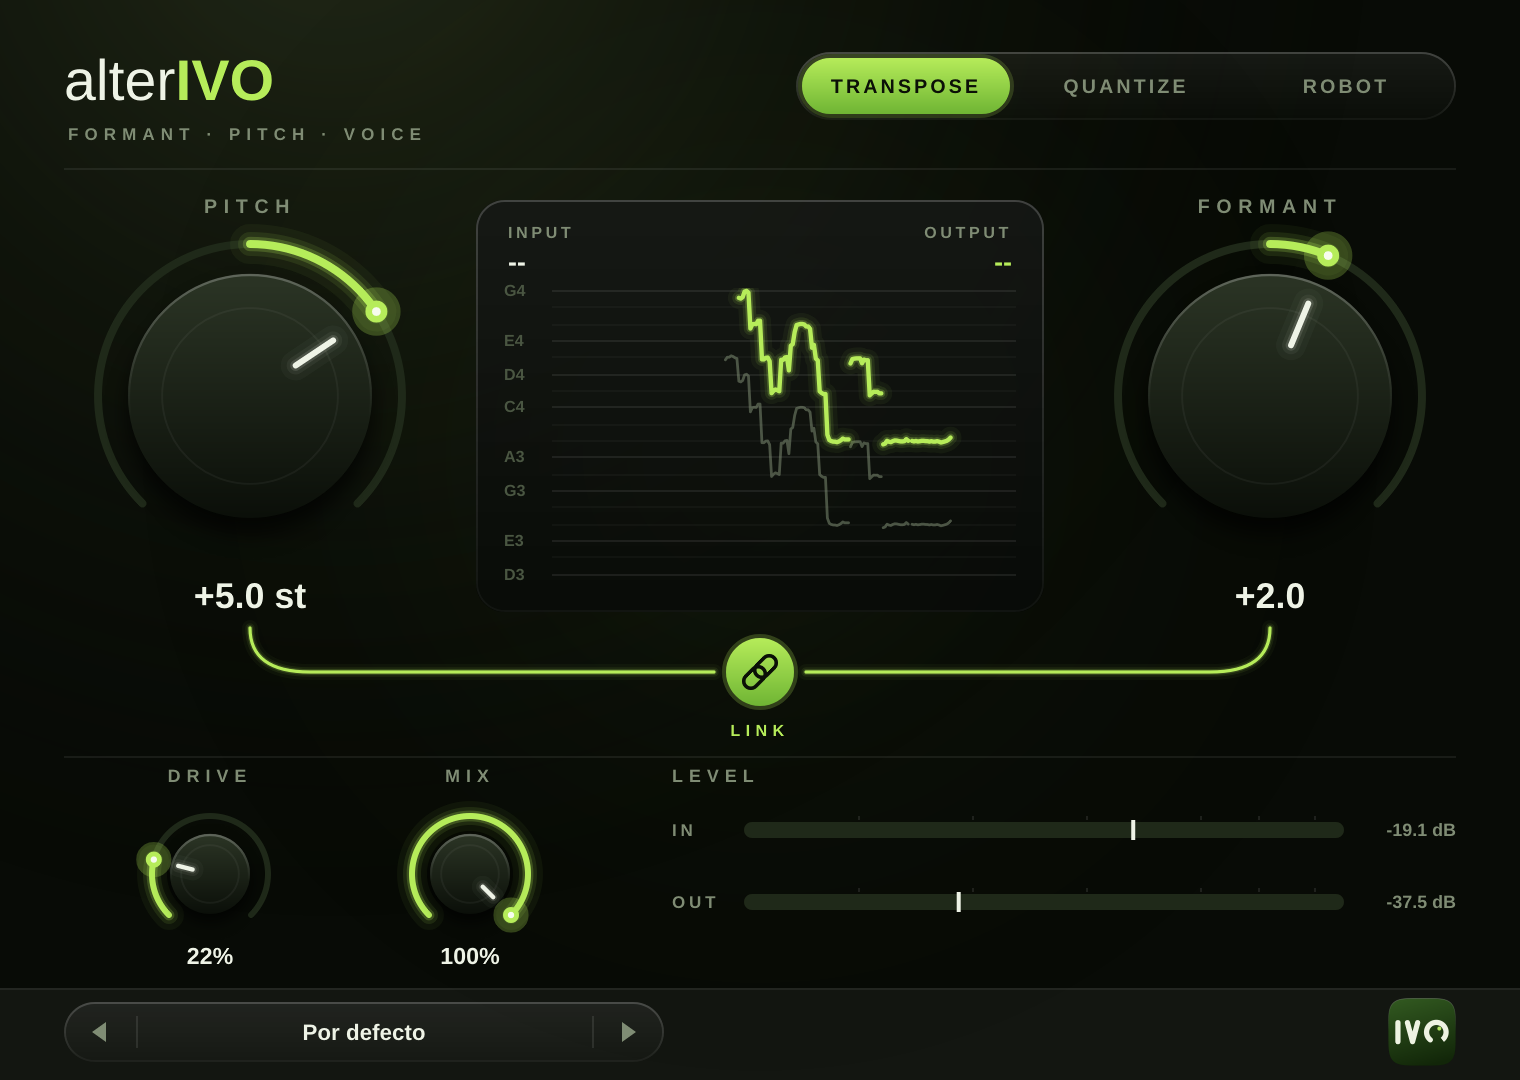
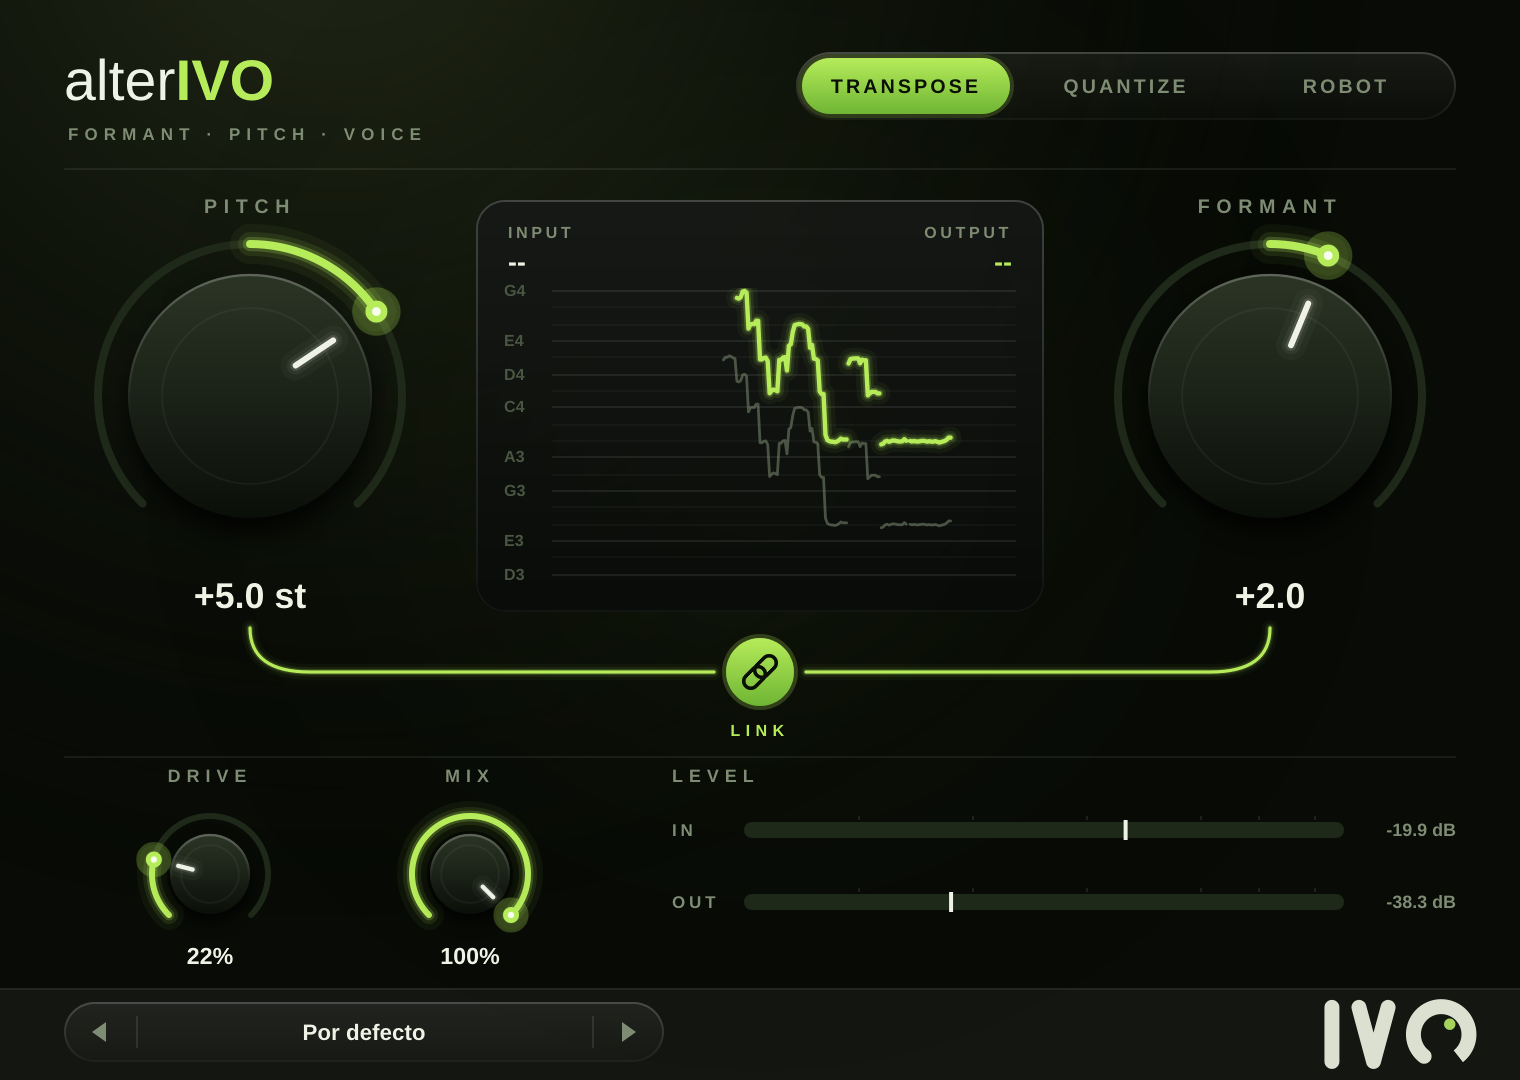
Firma IVO (solo letras) en el pie del plugin
Claude-Session: https://claude.ai/code/session_019pGoiKBtdYvcjfagAEK9Vp

diff --git a/Source/PluginEditor.cpp b/Source/PluginEditor.cpp
@@ -27,8 +27,8 @@ const juce::Rectangle<int> kOutMeter    { 336, 440, 392, 22 };
 const juce::Rectangle<int> kModes       { kW - 32 - 330, 26, 330, 34 };
 const juce::Rectangle<int> kPresets     { 32, 501, 300, 30 };
 
-// Logo IVO (insignia): mismo SVG que logo/ivo-logo-color.svg
-const char* kLogoSvg = R"SVG(<svg xmlns="http://www.w3.org/2000/svg" viewBox="0 0 100 100"><defs><linearGradient id="ivoBg" gradientUnits="userSpaceOnUse" x1="38" y1="4" x2="62" y2="96"><stop offset="0" stop-color="#30561f"/><stop offset="1" stop-color="#122609"/></linearGradient><linearGradient id="ivoHl" gradientUnits="userSpaceOnUse" x1="50" y1="4" x2="50" y2="50"><stop offset="0" stop-color="#ffffff" stop-opacity="0.22"/><stop offset="1" stop-color="#ffffff" stop-opacity="0"/></linearGradient></defs><path d="M96.00,50.00 L95.99,60.22 L95.96,63.81 L95.91,66.46 L95.84,68.65 L95.75,70.53 L95.64,72.21 L95.52,73.73 L95.37,75.12 L95.20,76.41 L95.01,77.61 L94.80,78.73 L94.57,79.79 L94.32,80.79 L94.04,81.73 L93.75,82.63 L93.43,83.49 L93.10,84.30 L92.74,85.07 L92.36,85.81 L91.95,86.51 L91.52,87.18 L91.07,87.82 L90.59,88.43 L90.09,89.01 L89.57,89.57 L89.01,90.09 L88.43,90.59 L87.82,91.07 L87.18,91.52 L86.51,91.95 L85.81,92.36 L85.07,92.74 L84.30,93.10 L83.49,93.43 L82.63,93.75 L81.73,94.04 L80.79,94.32 L79.79,94.57 L78.73,94.80 L77.61,95.01 L76.41,95.20 L75.12,95.37 L73.73,95.52 L72.21,95.64 L70.53,95.75 L68.65,95.84 L66.46,95.91 L63.81,95.96 L60.22,95.99 L50.00,96.00 L39.78,95.99 L36.19,95.96 L33.54,95.91 L31.35,95.84 L29.47,95.75 L27.79,95.64 L26.27,95.52 L24.88,95.37 L23.59,95.20 L22.39,95.01 L21.27,94.80 L20.21,94.57 L19.21,94.32 L18.27,94.04 L17.37,93.75 L16.51,93.43 L15.70,93.10 L14.93,92.74 L14.19,92.36 L13.49,91.95 L12.82,91.52 L12.18,91.07 L11.57,90.59 L10.99,90.09 L10.43,89.57 L9.91,89.01 L9.41,88.43 L8.93,87.82 L8.48,87.18 L8.05,86.51 L7.64,85.81 L7.26,85.07 L6.90,84.30 L6.57,83.49 L6.25,82.63 L5.96,81.73 L5.68,80.79 L5.43,79.79 L5.20,78.73 L4.99,77.61 L4.80,76.41 L4.63,75.12 L4.48,73.73 L4.36,72.21 L4.25,70.53 L4.16,68.65 L4.09,66.46 L4.04,63.81 L4.01,60.22 L4.00,50.00 L4.01,39.78 L4.04,36.19 L4.09,33.54 L4.16,31.35 L4.25,29.47 L4.36,27.79 L4.48,26.27 L4.63,24.88 L4.80,23.59 L4.99,22.39 L5.20,21.27 L5.43,20.21 L5.68,19.21 L5.96,18.27 L6.25,17.37 L6.57,16.51 L6.90,15.70 L7.26,14.93 L7.64,14.19 L8.05,13.49 L8.48,12.82 L8.93,12.18 L9.41,11.57 L9.91,10.99 L10.43,10.43 L10.99,9.91 L11.57,9.41 L12.18,8.93 L12.82,8.48 L13.49,8.05 L14.19,7.64 L14.93,7.26 L15.70,6.90 L16.51,6.57 L17.37,6.25 L18.27,5.96 L19.21,5.68 L20.21,5.43 L21.27,5.20 L22.39,4.99 L23.59,4.80 L24.88,4.63 L26.27,4.48 L27.79,4.36 L29.47,4.25 L31.35,4.16 L33.54,4.09 L36.19,4.04 L39.78,4.01 L50.00,4.00 L60.22,4.01 L63.81,4.04 L66.46,4.09 L68.65,4.16 L70.53,4.25 L72.21,4.36 L73.73,4.48 L75.12,4.63 L76.41,4.80 L77.61,4.99 L78.73,5.20 L79.79,5.43 L80.79,5.68 L81.73,5.96 L82.63,6.25 L83.49,6.57 L84.30,6.90 L85.07,7.26 L85.81,7.64 L86.51,8.05 L87.18,8.48 L87.82,8.93 L88.43,9.41 L89.01,9.91 L89.57,10.43 L90.09,10.99 L90.59,11.57 L91.07,12.18 L91.52,12.82 L91.95,13.49 L92.36,14.19 L92.74,14.93 L93.10,15.70 L93.43,16.51 L93.75,17.37 L94.04,18.27 L94.32,19.21 L94.57,20.21 L94.80,21.27 L95.01,22.39 L95.20,23.59 L95.37,24.88 L95.52,26.27 L95.64,27.79 L95.75,29.47 L95.84,31.35 L95.91,33.54 L95.96,36.19 L95.99,39.78 Z" fill="url(#ivoBg)"/><path d="M96.00,50.00 L95.99,60.22 L95.96,63.81 L95.91,66.46 L95.84,68.65 L95.75,70.53 L95.64,72.21 L95.52,73.73 L95.37,75.12 L95.20,76.41 L95.01,77.61 L94.80,78.73 L94.57,79.79 L94.32,80.79 L94.04,81.73 L93.75,82.63 L93.43,83.49 L93.10,84.30 L92.74,85.07 L92.36,85.81 L91.95,86.51 L91.52,87.18 L91.07,87.82 L90.59,88.43 L90.09,89.01 L89.57,89.57 L89.01,90.09 L88.43,90.59 L87.82,91.07 L87.18,91.52 L86.51,91.95 L85.81,92.36 L85.07,92.74 L84.30,93.10 L83.49,93.43 L82.63,93.75 L81.73,94.04 L80.79,94.32 L79.79,94.57 L78.73,94.80 L77.61,95.01 L76.41,95.20 L75.12,95.37 L73.73,95.52 L72.21,95.64 L70.53,95.75 L68.65,95.84 L66.46,95.91 L63.81,95.96 L60.22,95.99 L50.00,96.00 L39.78,95.99 L36.19,95.96 L33.54,95.91 L31.35,95.84 L29.47,95.75 L27.79,95.64 L26.27,95.52 L24.88,95.37 L23.59,95.20 L22.39,95.01 L21.27,94.80 L20.21,94.57 L19.21,94.32 L18.27,94.04 L17.37,93.75 L16.51,93.43 L15.70,93.10 L14.93,92.74 L14.19,92.36 L13.49,91.95 L12.82,91.52 L12.18,91.07 L11.57,90.59 L10.99,90.09 L10.43,89.57 L9.91,89.01 L9.41,88.43 L8.93,87.82 L8.48,87.18 L8.05,86.51 L7.64,85.81 L7.26,85.07 L6.90,84.30 L6.57,83.49 L6.25,82.63 L5.96,81.73 L5.68,80.79 L5.43,79.79 L5.20,78.73 L4.99,77.61 L4.80,76.41 L4.63,75.12 L4.48,73.73 L4.36,72.21 L4.25,70.53 L4.16,68.65 L4.09,66.46 L4.04,63.81 L4.01,60.22 L4.00,50.00 L4.01,39.78 L4.04,36.19 L4.09,33.54 L4.16,31.35 L4.25,29.47 L4.36,27.79 L4.48,26.27 L4.63,24.88 L4.80,23.59 L4.99,22.39 L5.20,21.27 L5.43,20.21 L5.68,19.21 L5.96,18.27 L6.25,17.37 L6.57,16.51 L6.90,15.70 L7.26,14.93 L7.64,14.19 L8.05,13.49 L8.48,12.82 L8.93,12.18 L9.41,11.57 L9.91,10.99 L10.43,10.43 L10.99,9.91 L11.57,9.41 L12.18,8.93 L12.82,8.48 L13.49,8.05 L14.19,7.64 L14.93,7.26 L15.70,6.90 L16.51,6.57 L17.37,6.25 L18.27,5.96 L19.21,5.68 L20.21,5.43 L21.27,5.20 L22.39,4.99 L23.59,4.80 L24.88,4.63 L26.27,4.48 L27.79,4.36 L29.47,4.25 L31.35,4.16 L33.54,4.09 L36.19,4.04 L39.78,4.01 L50.00,4.00 L60.22,4.01 L63.81,4.04 L66.46,4.09 L68.65,4.16 L70.53,4.25 L72.21,4.36 L73.73,4.48 L75.12,4.63 L76.41,4.80 L77.61,4.99 L78.73,5.20 L79.79,5.43 L80.79,5.68 L81.73,5.96 L82.63,6.25 L83.49,6.57 L84.30,6.90 L85.07,7.26 L85.81,7.64 L86.51,8.05 L87.18,8.48 L87.82,8.93 L88.43,9.41 L89.01,9.91 L89.57,10.43 L90.09,10.99 L90.59,11.57 L91.07,12.18 L91.52,12.82 L91.95,13.49 L92.36,14.19 L92.74,14.93 L93.10,15.70 L93.43,16.51 L93.75,17.37 L94.04,18.27 L94.32,19.21 L94.57,20.21 L94.80,21.27 L95.01,22.39 L95.20,23.59 L95.37,24.88 L95.52,26.27 L95.64,27.79 L95.75,29.47 L95.84,31.35 L95.91,33.54 L95.96,36.19 L95.99,39.78 Z" fill="none" stroke="url(#ivoHl)" stroke-width="1.1"/><line x1="17.050" y1="37.2" x2="17.050" y2="63.2" stroke="#eef3e2" stroke-width="7.2" stroke-linecap="round"/><polyline points="30.050,37.2 37.050,63.2 44.050,37.2" fill="none" stroke="#eef3e2" stroke-width="7.2" stroke-linecap="round" stroke-linejoin="round"/><path d="M61.381,60.720 A13.35,13.35 0 1 1 77.819,60.720" fill="none" stroke="#eef3e2" stroke-width="7.2" stroke-linecap="round"/><circle cx="73.714" cy="45.297" r="2.75" fill="#b4e566"/></svg>)SVG";
+// Firma IVO (solo letras, sin insignia): mismo SVG que logo/ivo-logo-simbolo.svg
+const char* kLogoSvg = R"SVG(<svg xmlns="http://www.w3.org/2000/svg" viewBox="0 0 100 100"><line x1="17.050" y1="37.2" x2="17.050" y2="63.2" stroke="#eef3e2" stroke-width="7.2" stroke-linecap="round"/><polyline points="30.050,37.2 37.050,63.2 44.050,37.2" fill="none" stroke="#eef3e2" stroke-width="7.2" stroke-linecap="round" stroke-linejoin="round"/><path d="M61.381,60.720 A13.35,13.35 0 1 1 77.819,60.720" fill="none" stroke="#eef3e2" stroke-width="7.2" stroke-linecap="round"/><circle cx="73.714" cy="45.297" r="2.75" fill="#b4e566"/></svg>)SVG";
 
 juce::Rectangle<int> centredRect (int cx, int y, int w, int h) { return { cx - w / 2, y, w, h }; }
 
@@ -644,8 +644,13 @@ void AlterIvoEditor::paint (juce::Graphics& g)
     g.drawHorizontalLine (494, 0.0f, W);
 
     if (logoMark != nullptr)
-        logoMark->drawWithin (g, juce::Rectangle<float> (W - 32.0f - 34.0f, 499.0f, 34.0f, 34.0f),
-                              juce::RectanglePlacement::centred, 1.0f);
+    {
+        // Las letras ocupan el 73 % del ancho del SVG: se alinea su borde derecho con el margen
+        const float size = 76.0f;
+        const float x = W - 32.0f + 0.1345f * size - size;
+        logoMark->drawWithin (g, juce::Rectangle<float> (x, 517.0f - size * 0.5f, size, size),
+                              juce::RectanglePlacement::centred, 0.92f);
+    }
 }
 
 void AlterIvoEditor::resized()
